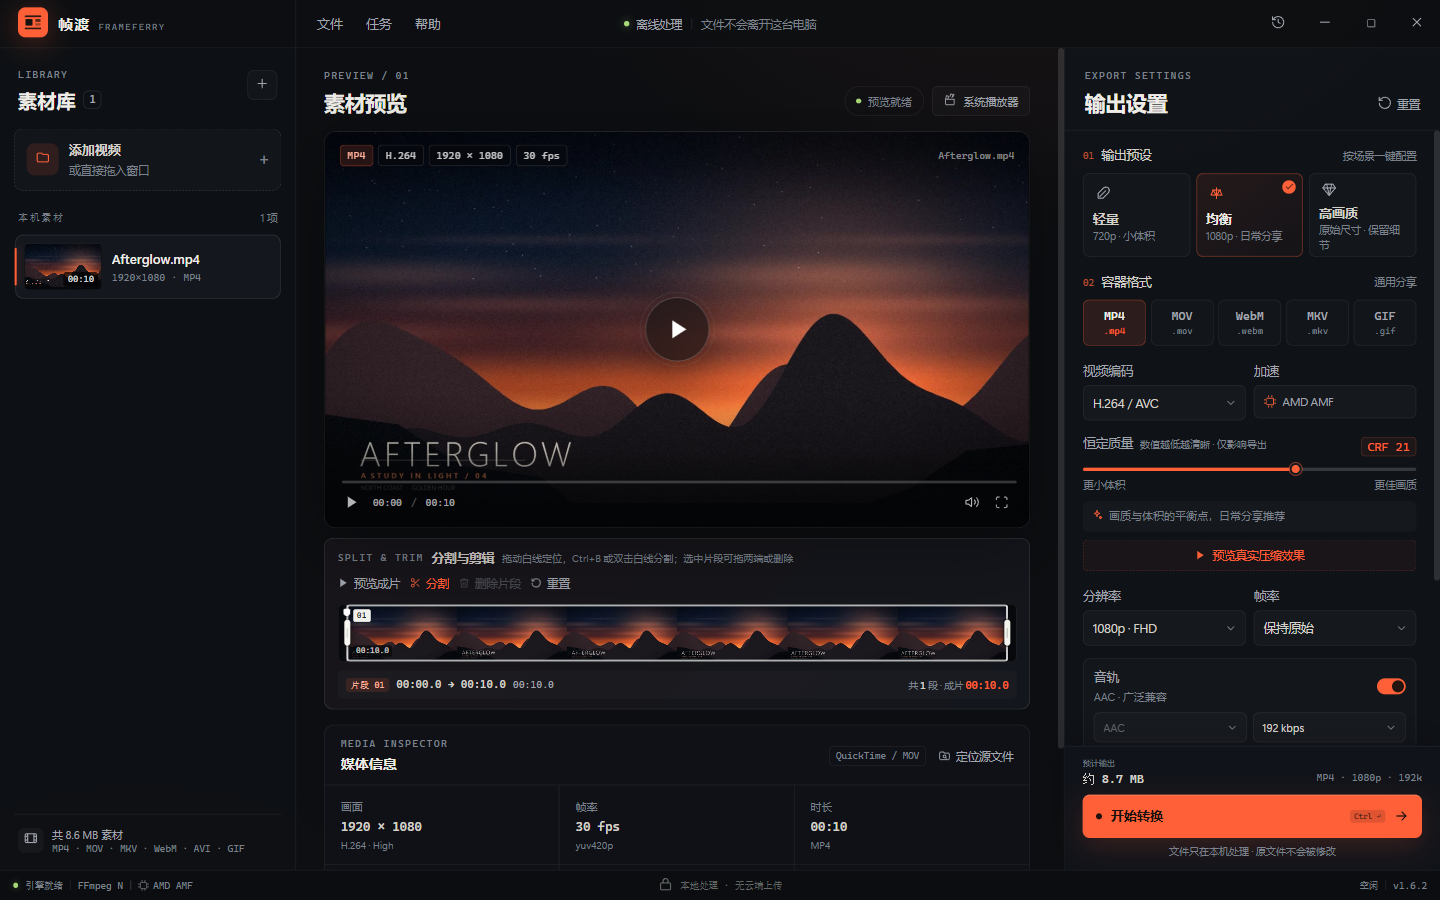
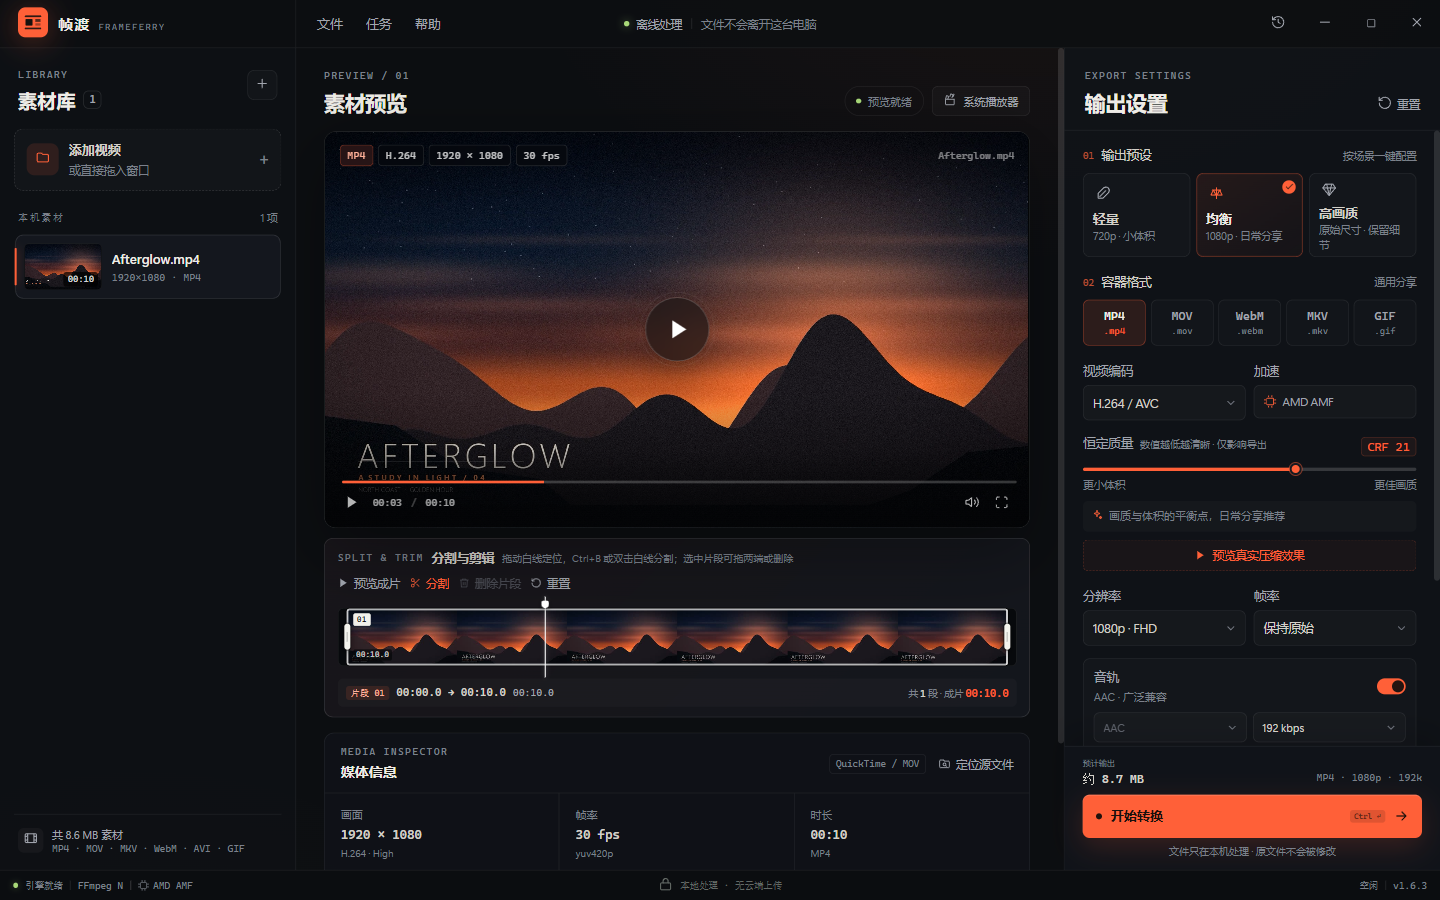
fix: 分割线高于缩略图条
白色分割线上下各延伸 12px，总高 80.67px，缩略图条保持 58px；拖动定位正常。版本提升到 v1.6.3。

diff --git a/renderer/styles.css b/renderer/styles.css
@@ -4576,3 +4576,15 @@ input:focus-visible {
   right: auto;
   transform: translate(-50%, -50%);
 }
+
+/* Taller split line: it extends above and below the thumbnail strip. */
+
+.clip-timeline {
+  overflow: visible;
+  margin: 14px 0 13px;
+}
+
+.clip-timeline .trim-playhead {
+  top: -12px;
+  bottom: -12px;
+}

diff --git a/docs/TEST_REPORT.md b/docs/TEST_REPORT.md
@@ -133,6 +133,7 @@
 | 时间轴播放头 | 播放时白线随进度移动；点击轨道暂停并跳转，主预览时间同步 |
 | 手柄跨边缘 | 片段左边界 x=346.33，手柄区 339–355，中心对准边界；时间轴两侧留 8px，首尾不被裁切 |
 | 跨边手柄拖动 | 右手柄从 10s 拖到 8s，片段变为 0–8s，时长气泡 00:08.0，播放头保持 0% |
+| 分割线加高 | 缩略图条高 58px，分割线高 80.67px；上下各超出 12px；拖动后定位到 30% |
 | 分割与删除 MP4 | 在 3s、7s 分割后删除中间段，输出 6.000s，音画均保留 |
 | 分割片段再裁剪 | 把首段出点从 3.0s 拖到 2.5s，输出 5.500s |
 | 分割后 GIF | 保留 0–3s / 7–10s，输出 75 帧 / 6s / 全部 80ms |
